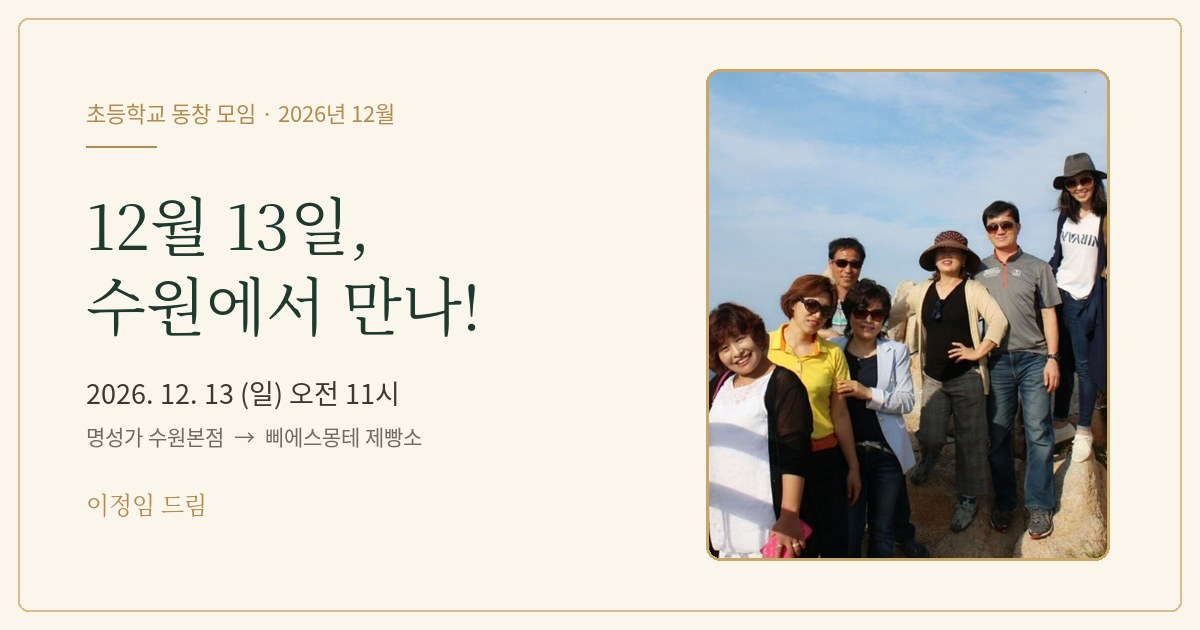
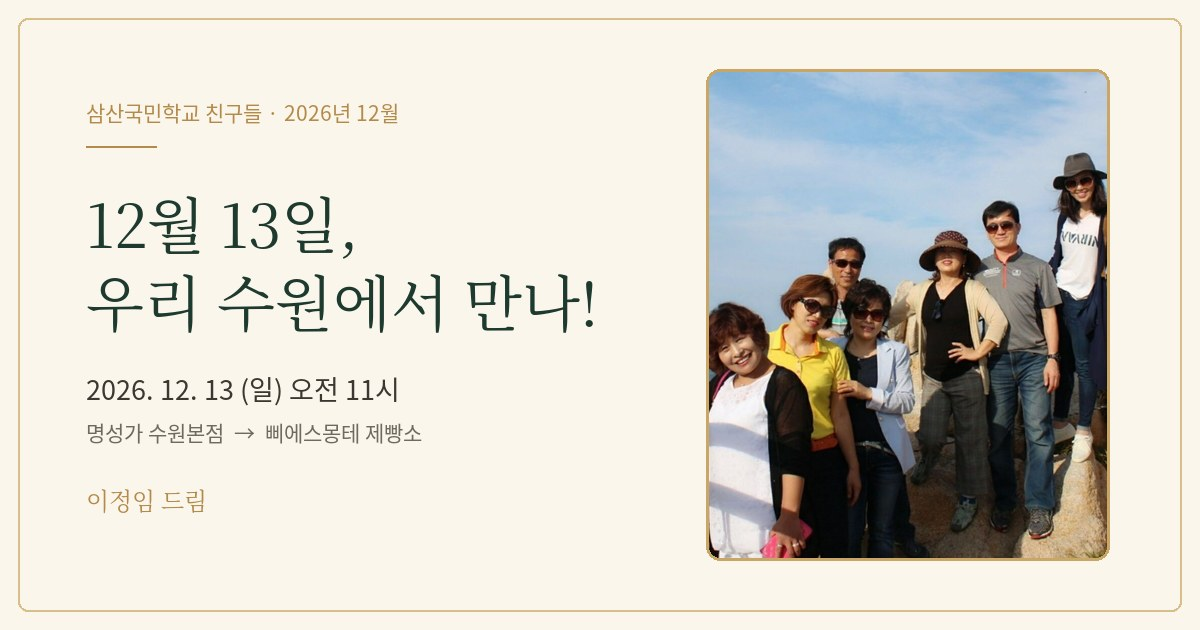
삼산국민학교 친구들 톤으로 문구 수정, 단체사진 추억 카드·OG 이미지 추가

diff --git a/index.html b/index.html
@@ -4,10 +4,10 @@
 <meta charset="utf-8">
 <meta name="viewport" content="width=device-width, initial-scale=1, viewport-fit=cover">
 <title>12월 13일 수원 친구 모임 · 초대장</title>
-<meta name="description" content="초등학교 동창 모임 · 2026년 12월 13일(일) 오전 11시, 수원 명성가 수원본점에서 만나 삐에스몽테 제빵소로 이어지는 연말 모임에 초대합니다.">
+<meta name="description" content="삼산국민학교 친구들 모임 · 2026년 12월 13일(일) 오전 11시, 수원 명성가 수원본점에서 만나 삐에스몽테 제빵소로 이어지는 연말 모임에 초대합니다.">
 <meta name="theme-color" content="#1E3A2F">
 <meta property="og:type" content="website">
-<meta property="og:title" content="초등학교 동창 모임 · 12월 13일, 수원에서 만나요">
+<meta property="og:title" content="삼산국민학교 친구들 모임 · 12월 13일, 수원에서 만나요">
 <meta property="og:description" content="2026. 12. 13 (일) 오전 11시 · 명성가 수원본점 → 삐에스몽테 제빵소 · 이정임 드림">
 <meta property="og:image" content="assets/og-cover.jpg">
 <meta property="og:image:width" content="1200">
@@ -25,7 +25,7 @@
 
 <header class="hero">
   <div class="hero__frame">
-    <p class="hero__eyebrow">초등학교 동창 모임 · 2026년 12월 13일 수원</p>
+    <p class="hero__eyebrow">삼산국민학교 친구들 모임 · 2026년 12월 13일 수원</p>
     <div class="hero__rule" aria-hidden="true"><span></span><i>❖</i><span></span></div>
     <h1 class="hero__title">12월 13일,<br>우리 수원에서 만나!</h1>
     <p class="hero__sub">오랜만에 모여 맛있는 점심 먹고, 커피 한 잔하며 수다 떨자!</p>
@@ -40,7 +40,7 @@
 
   <section class="memory reveal" aria-labelledby="memory-title">
     <figure class="memory__frame">
-      <img src="assets/friends-group.jpg" width="864" height="997" loading="lazy" alt="초등학교 동창들과 함께 찍은 단체 사진">
+      <img src="assets/friends-group.jpg" width="864" height="997" loading="lazy" alt="삼산국민학교 친구들과 함께 찍은 단체 사진">
     </figure>
     <h2 class="memory__caption" id="memory-title">우리, 이렇게 오래 함께했지요</h2>
     <p class="memory__line">12월 13일에도 이렇게 웃으며 만나요.</p>
@@ -171,7 +171,7 @@
 
   <footer class="footer">
     <div class="hero__rule" aria-hidden="true"><span></span><i>❖</i><span></span></div>
-    <p class="footer__date">초등학교 동창 모임 · 2026년 12월 13일 · 수원</p>
+    <p class="footer__date">삼산국민학교 친구들 모임 · 2026년 12월 13일 · 수원</p>
     <p class="footer__sign">이정임 드림</p>
   </footer>
 

diff --git a/assets/app.js b/assets/app.js
@@ -1,9 +1,9 @@
-/* 12월 13일 수원 동창 모임 · 초대장 스크립트 */
+/* 12월 13일 삼산국민학교 친구들 모임 · 초대장 스크립트 */
 (function () {
   'use strict';
 
   var EVENT = {
-    title: '12월 13일 수원 동창 모임',
+    title: '12월 13일 삼산국민학교 친구들 모임',
     place: '명성가 수원본점 (경기 수원시 권선구 금호로 154)',
     place2: '삐에스몽테 제빵소 (경기 수원시 권선구 오목천로 149)',
     // 2026-12-13 11:00 KST = 02:00 UTC
@@ -99,7 +99,7 @@
       'SUMMARY:' + EVENT.title,
       'LOCATION:' + EVENT.place,
       'DESCRIPTION:' + [
-        '초등학교 동창 모임',
+        '삼산국민학교 친구들 모임',
         '1차 점심 11:00 ' + EVENT.place,
         '2차 빵과 커피 ' + EVENT.place2 + ' (차로 약 8분)',
         '두 곳 모두 무료 주차',

diff --git a/README.md b/README.md
@@ -1,6 +1,6 @@
-# 12월 13일 수원 동창 모임 초대장
+# 12월 13일 삼산국민학교 친구들 모임 초대장
 
-초등학교 동창 모임(2026년 12월 13일 일요일, 수원) 안내용 모바일 초대장 랜딩페이지입니다.
+삼산국민학교 친구들 모임(2026년 12월 13일 일요일, 수원) 안내용 모바일 초대장 랜딩페이지입니다.
 
 - 1차 점심: 명성가 수원본점 (경기 수원시 권선구 금호로 154)
 - 2차 빵·커피: 삐에스몽테 제빵소 (경기 수원시 권선구 오목천로 149)
